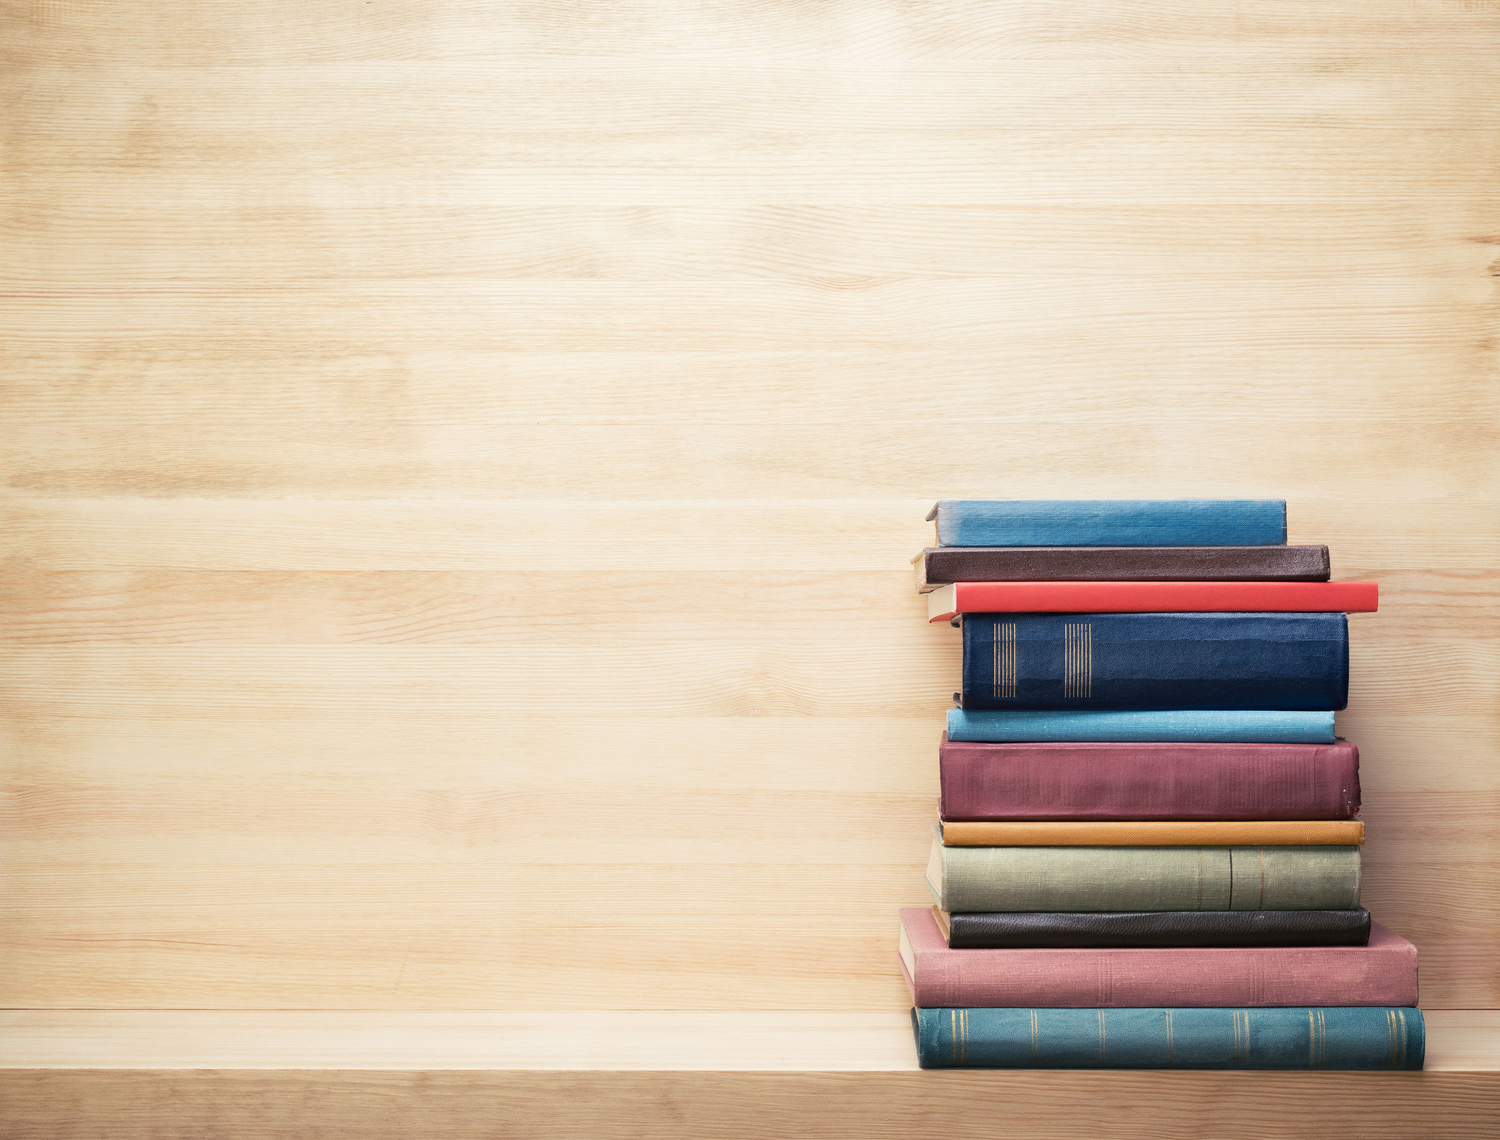
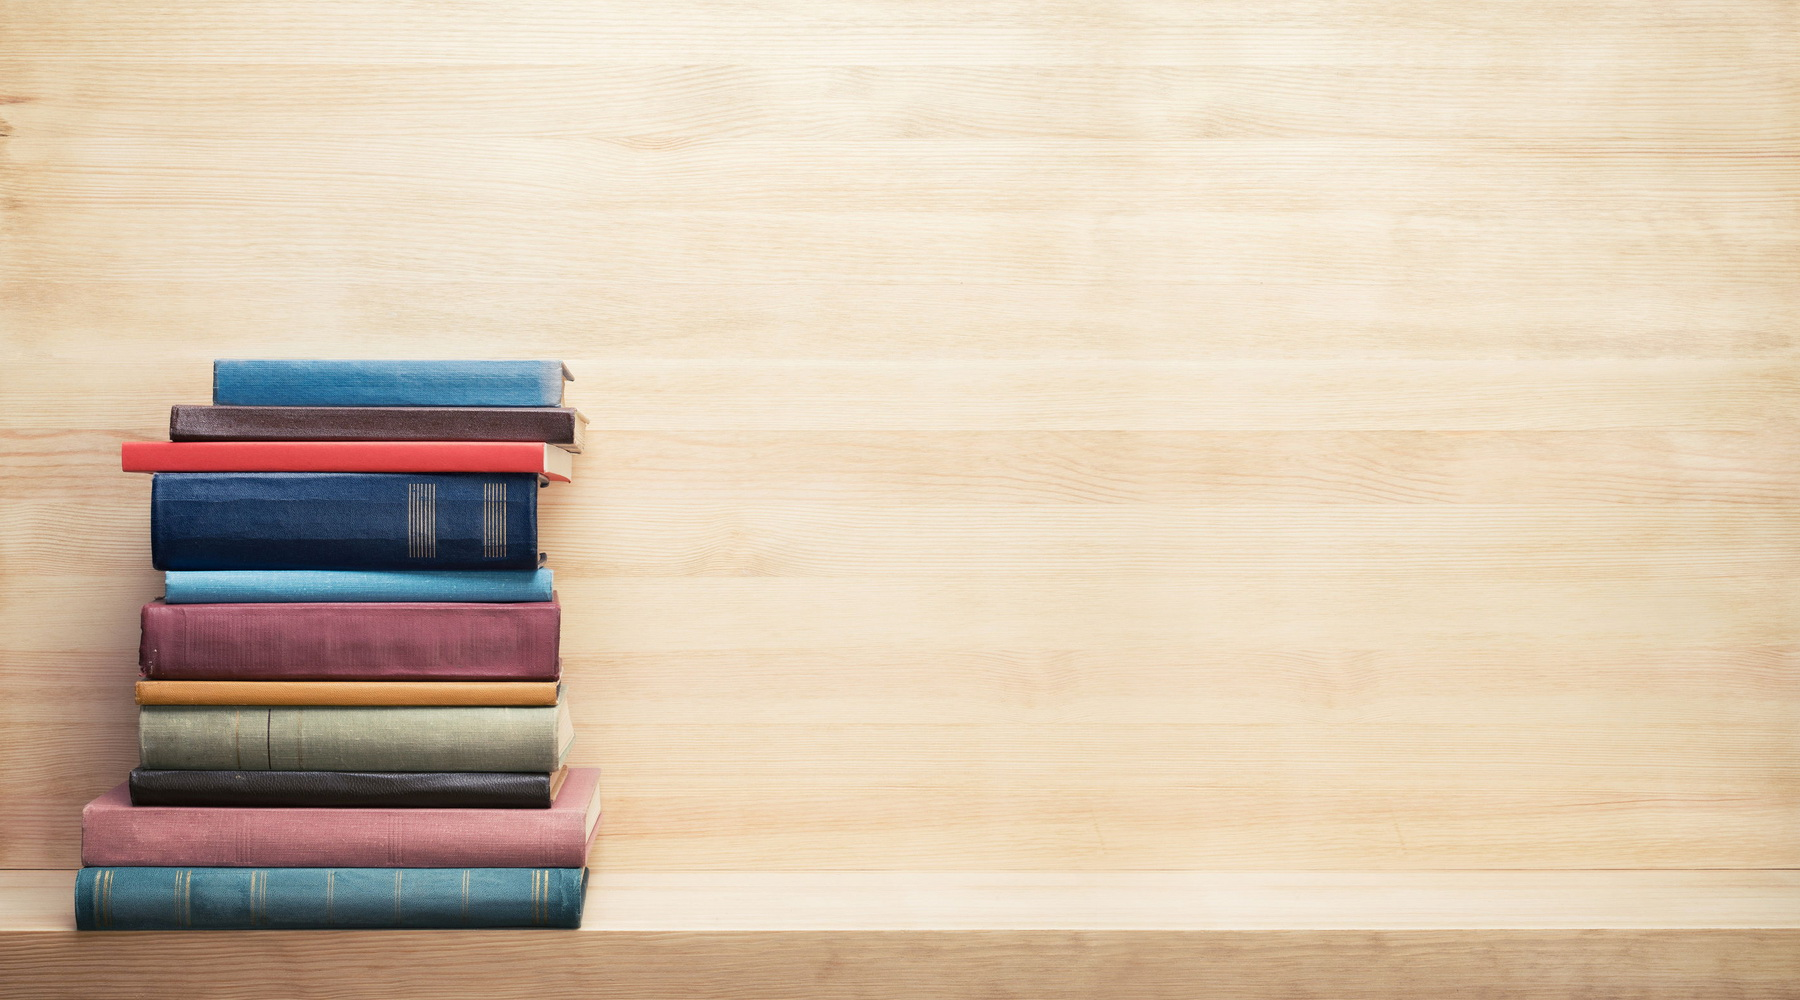
styling books page

diff --git a/app/assets/stylesheets/application.scss b/app/assets/stylesheets/application.scss
@@ -5,17 +5,52 @@ $envelope-shadow:                  0 1px 2px rgba(0, 0, 0, .2) !default;
 $book-cover-shadow:         4px 3px 10px 4px rgba(0, 0, 0, .4) !default;
 
 /*landing page*/
-.sign-in-page {
+.authentication-background {
   background-image: image-url('background/authentication.jpg');
   background-size: cover;
   position: relative;
-  height: 620px;
+  background-position:left bottom;
+  height: 680px;
+  // padding-top: 80px;
+}
+
+.authentication-quote {
+  padding-left: 50px;
+  padding-right: 50px;
+  padding-top: 50px;
+}
+
+.authentication-box {
   padding-top: 80px;
 }
 
-.authen-quote {
-  padding-left: 50px;
-  padding-right: 50px;
+/*book page*/
+.horizontal-wood-background {
+  background-image: image-url('background/background-wood-horizontal.jpg');
+  background-repeat: repeat-y;
+  position: relative;
+  min-height: 620px;
+  padding-top: 1px;
+  padding-bottom: 10px;
+}
+
+/*book block*/
+.book-block {
+  padding-top: 10px;
+  padding-left: 10px;
+}
+
+.book-cover {
+  @include box-shadow($value: $book-cover-shadow);
+}
+
+.book-info {
+  margin-left: 10px;
+  min-height: 193px;
+  padding: 5px;
+  background-color: #ffffff;
+  opacity: 0.6;
+  filter: alpha(opacity=60); /* For IE8 and earlier */
 }
 
 /*form envelope*/
@@ -29,12 +64,5 @@ $book-cover-shadow:         4px 3px 10px 4px rgba(0, 0, 0, .4) !default;
   padding: 15px;
 }
 
-/*book block*/
-.book-block {
-  padding-top: 10px;
-  padding-left: 10px;
-}
 
-.book-cover {
-  @include box-shadow($value: $book-cover-shadow);
-}
+

diff --git a/app/models/book.rb b/app/models/book.rb
@@ -1,3 +1,16 @@
+  # create_table "books", force: :cascade do |t|
+  #   t.string   "title"
+  #   t.integer  "author_id"
+  #   t.integer  "category_id"
+  #   t.decimal  "isbn",        precision: 13
+  #   t.text     "description"
+  #   t.datetime "created_at",                 null: false
+  #   t.datetime "updated_at",                 null: false
+  #   t.string   "image_url"
+  #   t.index ["author_id"], name: "index_books_on_author_id", using: :btree
+  #   t.index ["category_id"], name: "index_books_on_category_id", using: :btree
+  # end
+
 class Book < ApplicationRecord
     belongs_to :author
     belongs_to :category
